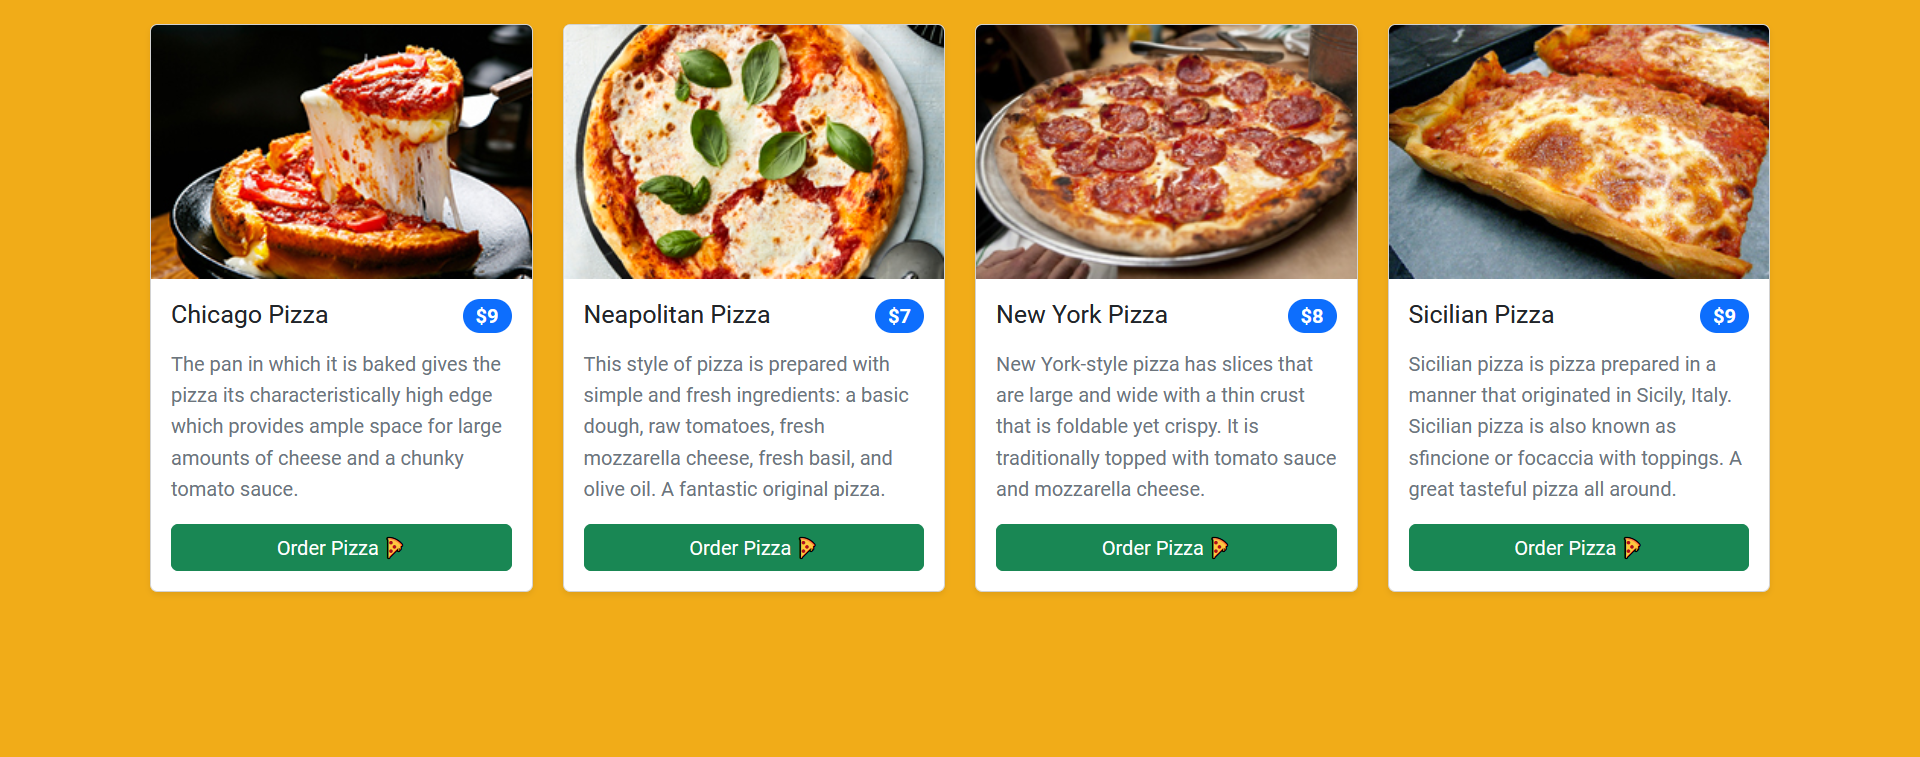
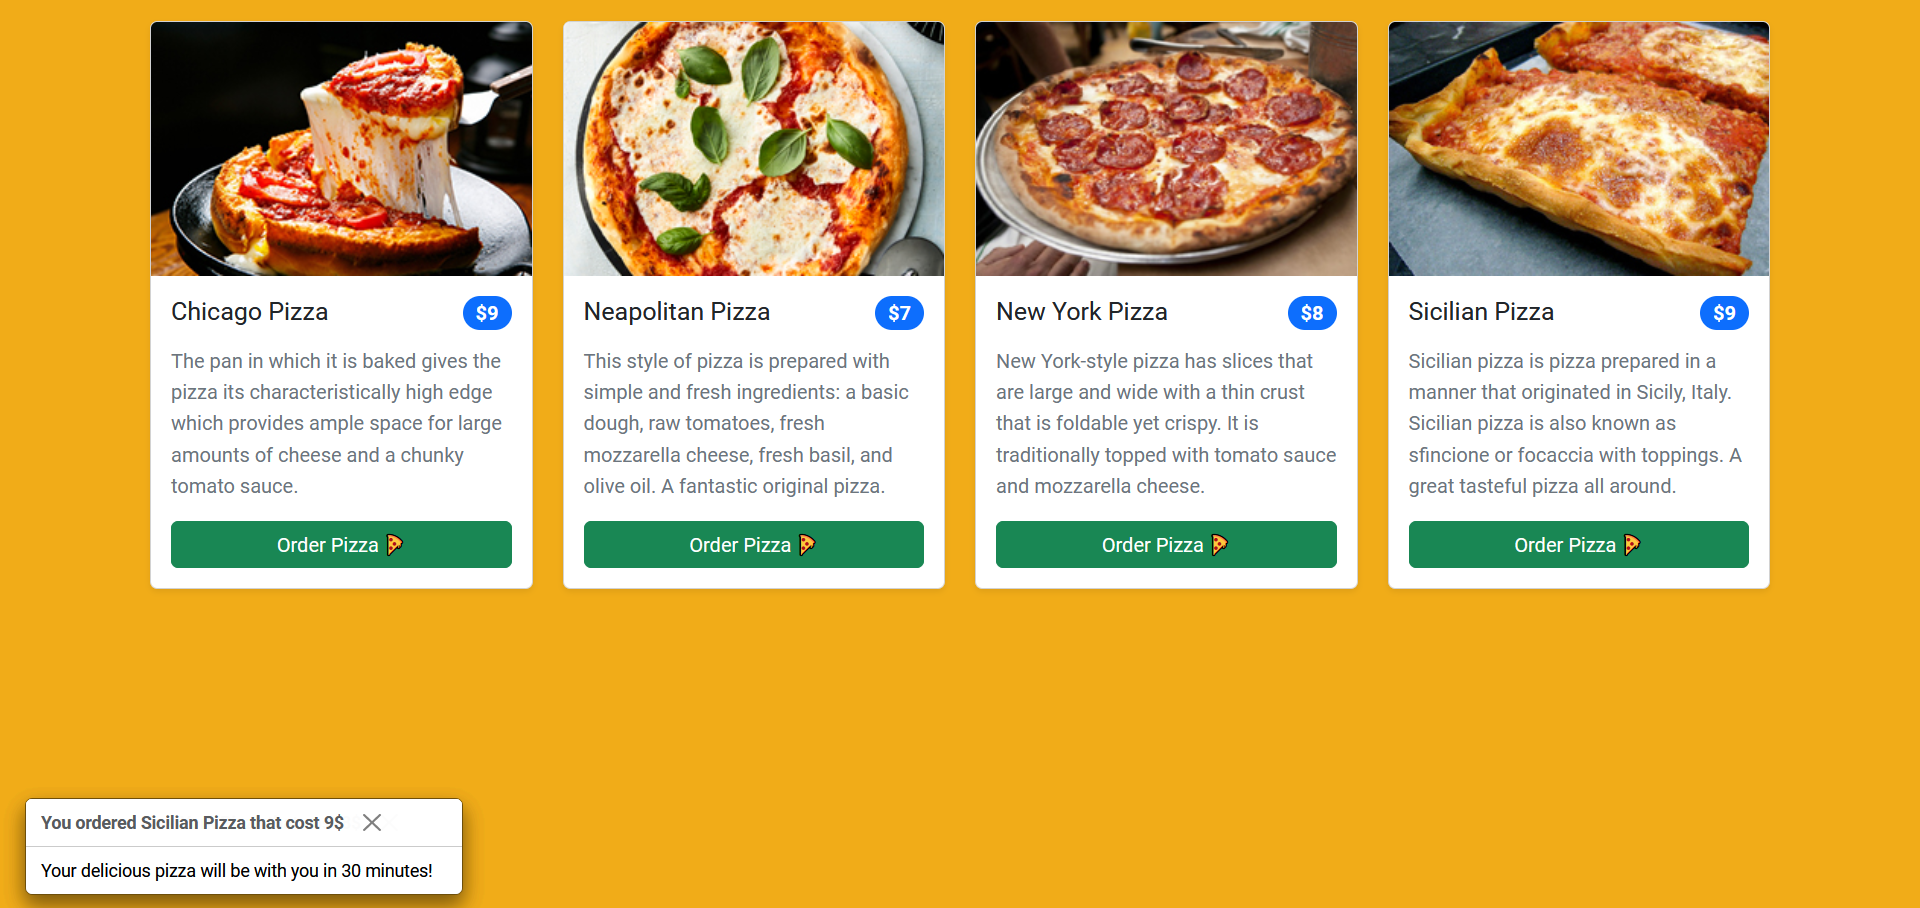
Customize the message in the Confirmation component based on the chosen pizza

diff --git a/src/App.js b/src/App.js
@@ -7,19 +7,19 @@ import { Confirmation } from "./components/Confirmation/Confirmation";
 import pizzas from "./data.json";
 
 function App() {
-  const [ordred, setOrdred] = useState(false);
+  const [ordred, setOrdred] = useState(null);
 
-  function displayConfirmation() {
-    setOrdred(true);
+  //? const [ordredPizza, setordredPizza] = useState(null);
+
+  function displayConfirmation(pizzas) {
+    setOrdred(pizzas);
     setTimeout(() => {
-      setOrdred(false);
+      setOrdred(null);
     }, 70000);
   }
   return (
     <div>
-      {pizzas.map((dataPizza) => (<div>
-      {ordred && <Confirmation toggle={setOrdred} pizzas={dataPizza} />}
-      </div>))}
+      {ordred && <Confirmation toggle={() => setOrdred(null)} pizzas={ordred}/>}
       <Container>
         <Row>
           {pizzas.map((data) => (

diff --git a/src/components/Confirmation/Confirmation.jsx b/src/components/Confirmation/Confirmation.jsx
@@ -1,12 +1,14 @@
 import React from 'react';
 import { Toast } from 'react-bootstrap';
 import './Confirmation.scss';
-export function Confirmation({ toggle,pizzas }) {
+export function Confirmation({ toggle, pizzas }) {
   return (
     <div className='black-color'>
-    <Toast onClose={() => toggle(false)}>
+    <Toast onClose={toggle}>
       <Toast.Header>
+        <div key={pizzas.id}>
         <strong className="mr-auto">You ordered {pizzas.name} that cost {pizzas.price}$</strong>
+        </div>
       </Toast.Header>
       <Toast.Body>
         Your delicious pizza will be with you in 30 minutes!

diff --git a/src/components/PizzaCard/PizzaCard.jsx b/src/components/PizzaCard/PizzaCard.jsx
@@ -14,7 +14,7 @@ export function PizzaCard({data, setOrdred}) {
             </Badge>
         </div>
             <Card.Text className='text-secondary'>{data.desc}</Card.Text>
-            <button onClick={() => setOrdred()}
+            <button onClick={() => setOrdred(data)}
             className='mt-auto font-weight-bold btn btn-success'>
                 Order Pizza 🍕
             </button>
